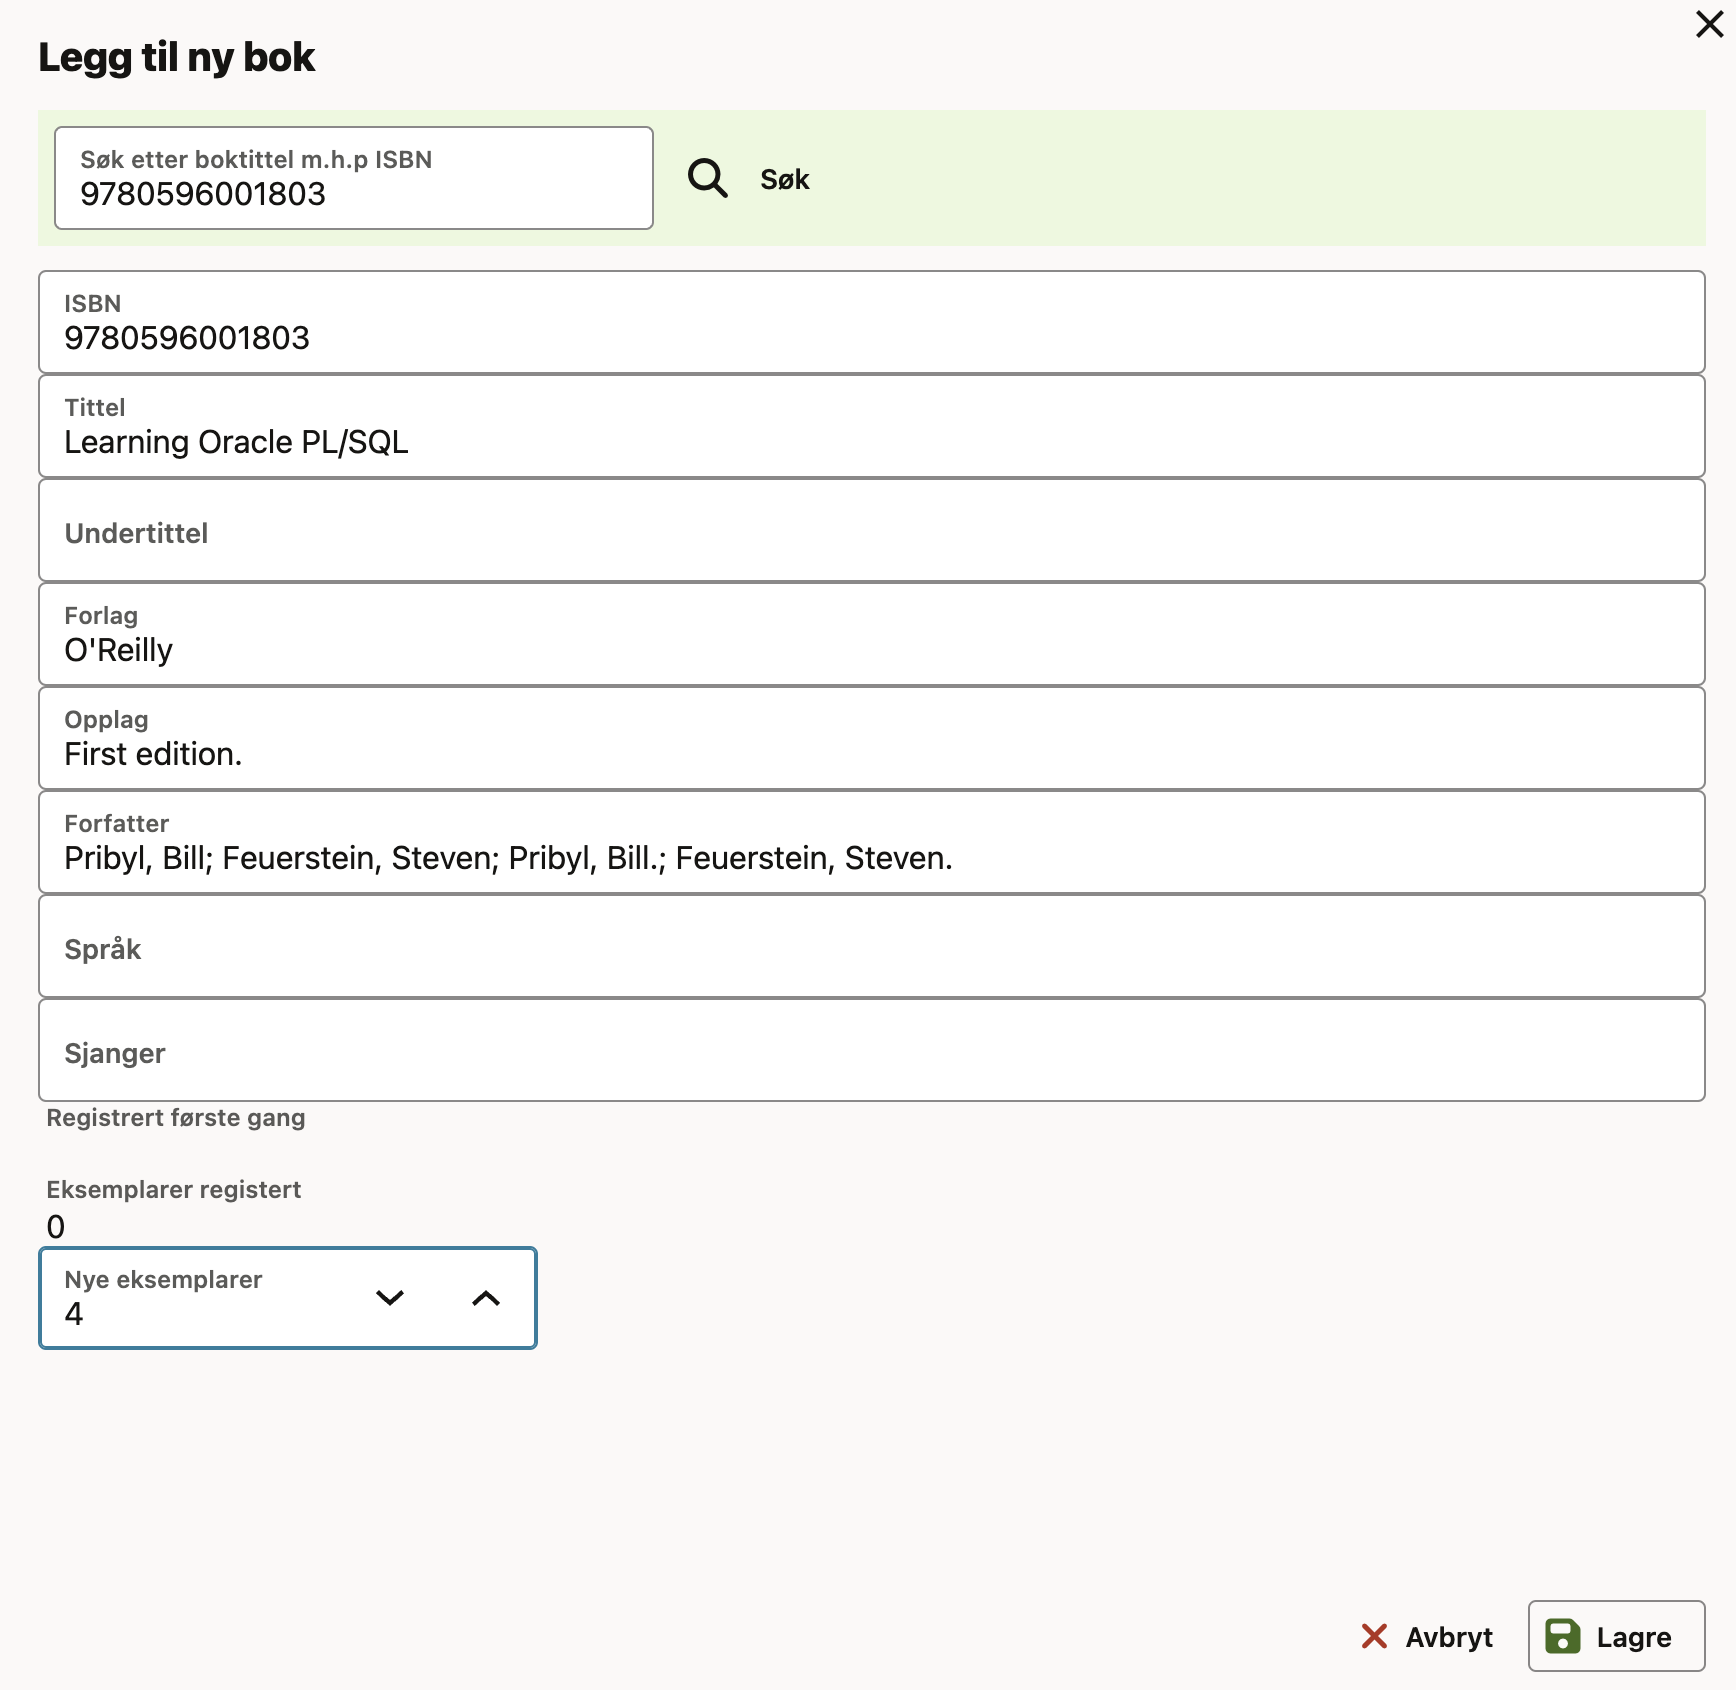
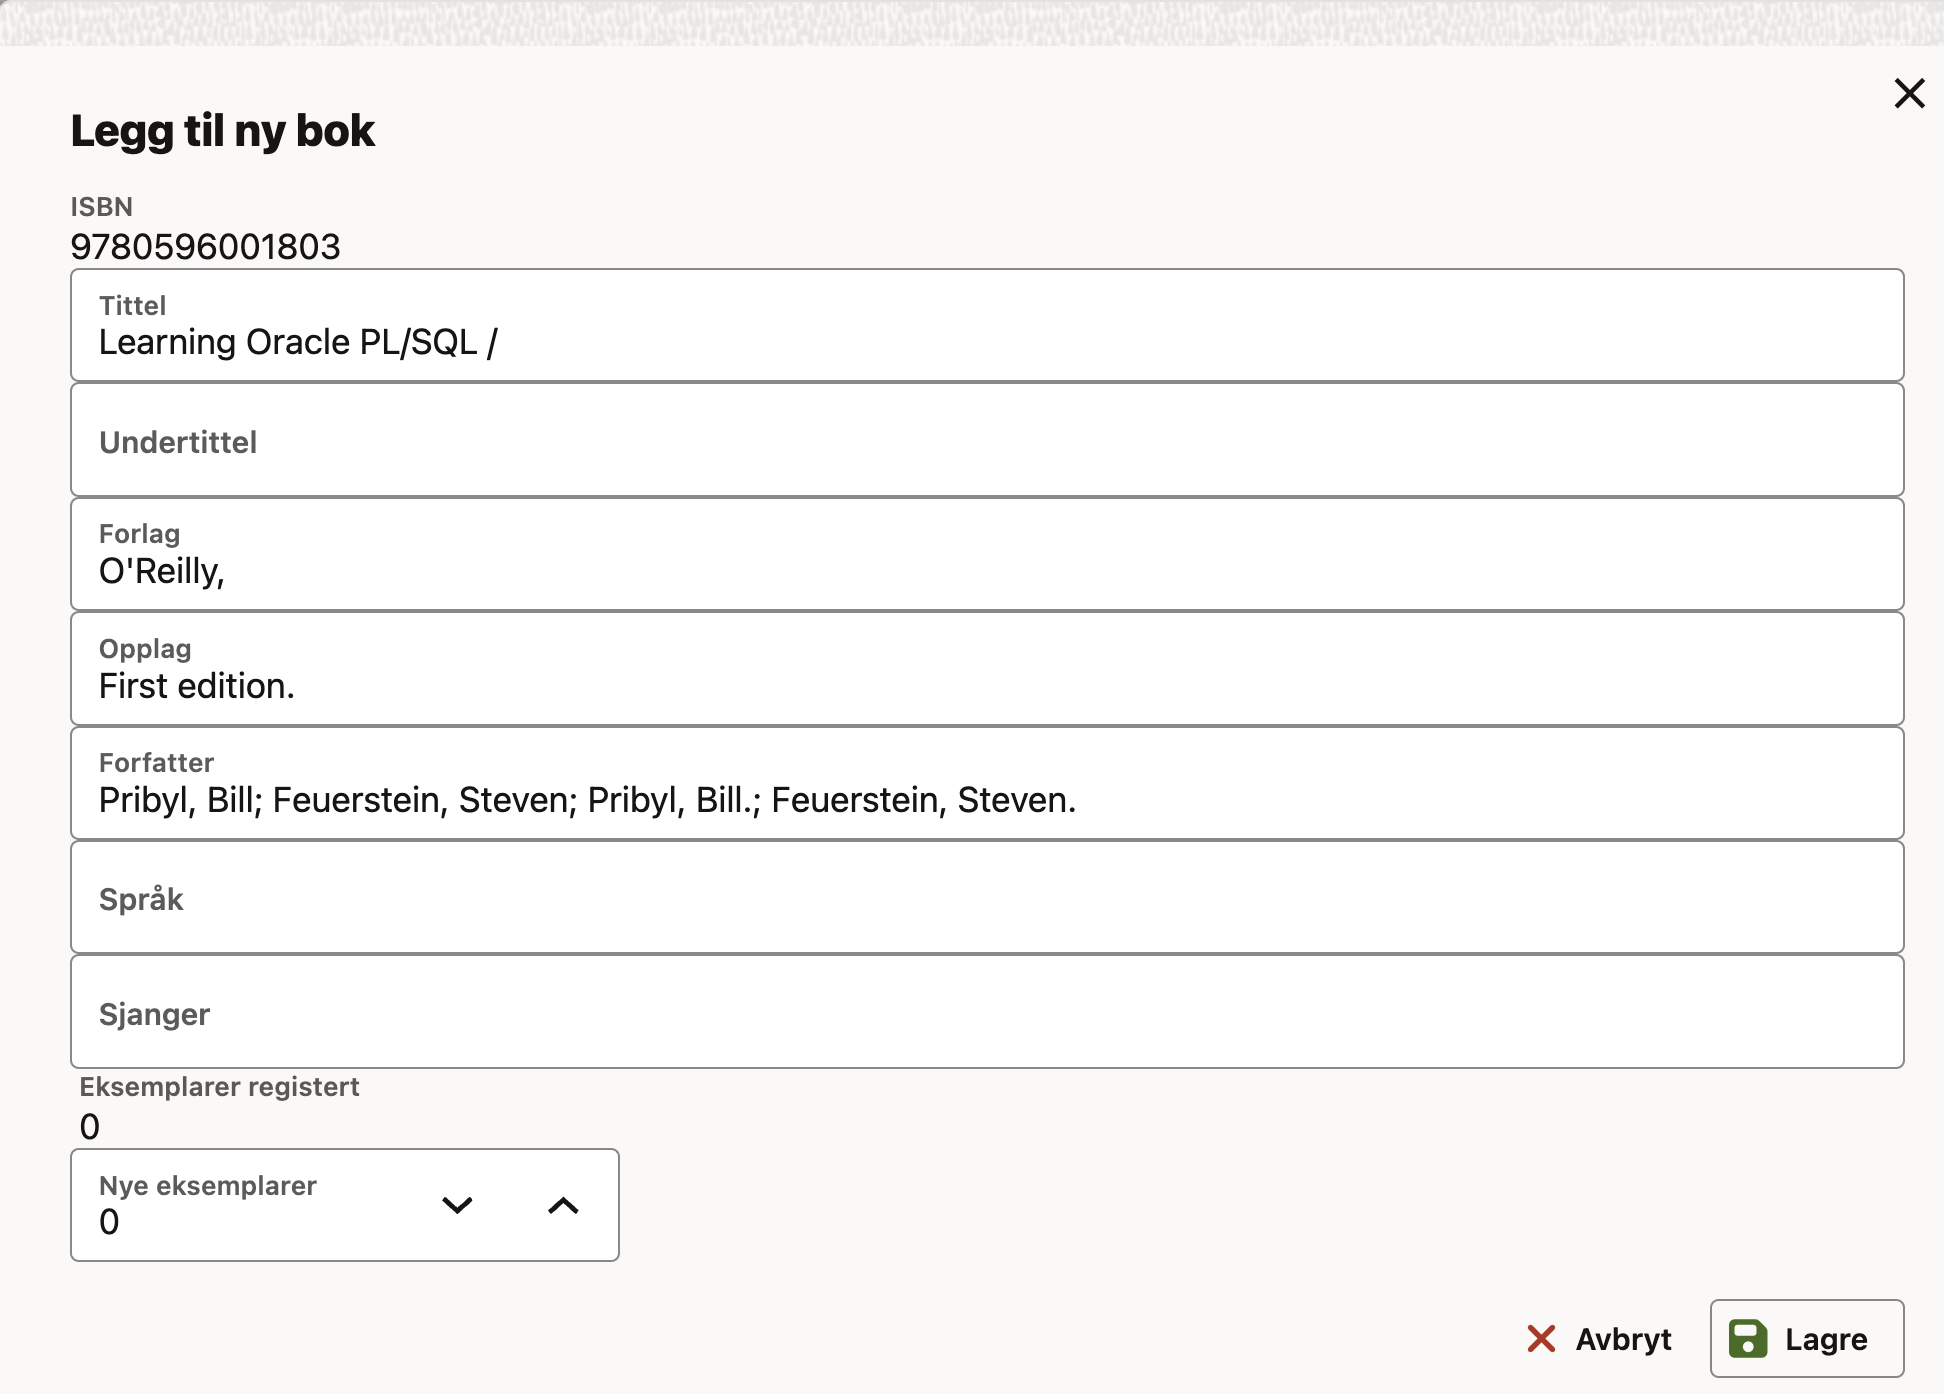
Biblioteket

diff --git a/iskole/docs/ut_bibliotek.md b/iskole/docs/ut_bibliotek.md
@@ -36,10 +36,6 @@ Etter at data er lest fra Alma, eller man har fyllt inn informasjonen selv, gjen
 
 ![bilde](/img/utl_bibliotek_bokregister_legg_til_boktittel_2.png)
 
-:::info Merk
-Hvis det skal legges til flere eksemplarer av boken senere: Klikk «Legg til» og søk på ISBN. Informasjonen om boken hentes da fra iSkole og ikke Alma. Oppgi antall eksemplarer som skal legges til.
-:::
-
 #### Søk etter en bok
 Etterhvert som det blir mange bøker, kan det være nyttig å bruke søkefunksjonen
 for å finne boktittelen man er ute etter.
@@ -51,6 +47,13 @@ for å finne boktittelen man er ute etter.
 #### Endre bokinformasjon
 1. Finn boken i tabellen og trykk på knappen «Endre».
 2. Et nytt vindu vises og lar deg endre bokinformasjonen.
+
+#### Legg til nye eksemplarer
+Hvis man har fått nye eksemplarer av en bok man allerede har registrert, så kan man raskt legge dem inn ved først å søke opp boktittelen i den øvre
+delen av vinduet ved å benytte seg av ISBN-nummeret, og deretter trykke på knappen _Legg til_ over listen av allerede registrerte eksemplarer. I dialogen
+som kommer frem blir man bedt om å oppgi det hvor mange nye eksemplarer man har. Skriv inn antallet og trykk på _Lagre_.
+
+Alternativt kan man trykke på _Legg til_ over listen av bøker som om boken ikke fantes i registeret, og så søke opp boken ved ISBN-nummeret. Informasjonen om boken hentes da fra iSkole og ikke Alma. Oppgi antall eksemplarer som skal legges til. Også her oppgir man hvor mange nye eksemplarer som skal registreres.
 
 #### Utskrift av merkelapper
 Det er to måter å produsere merkelapper på, enten utskrift på en vanlig skriver som har ark med klistrelapper i format 3x8, eller utskrift på en etikettskriver.
